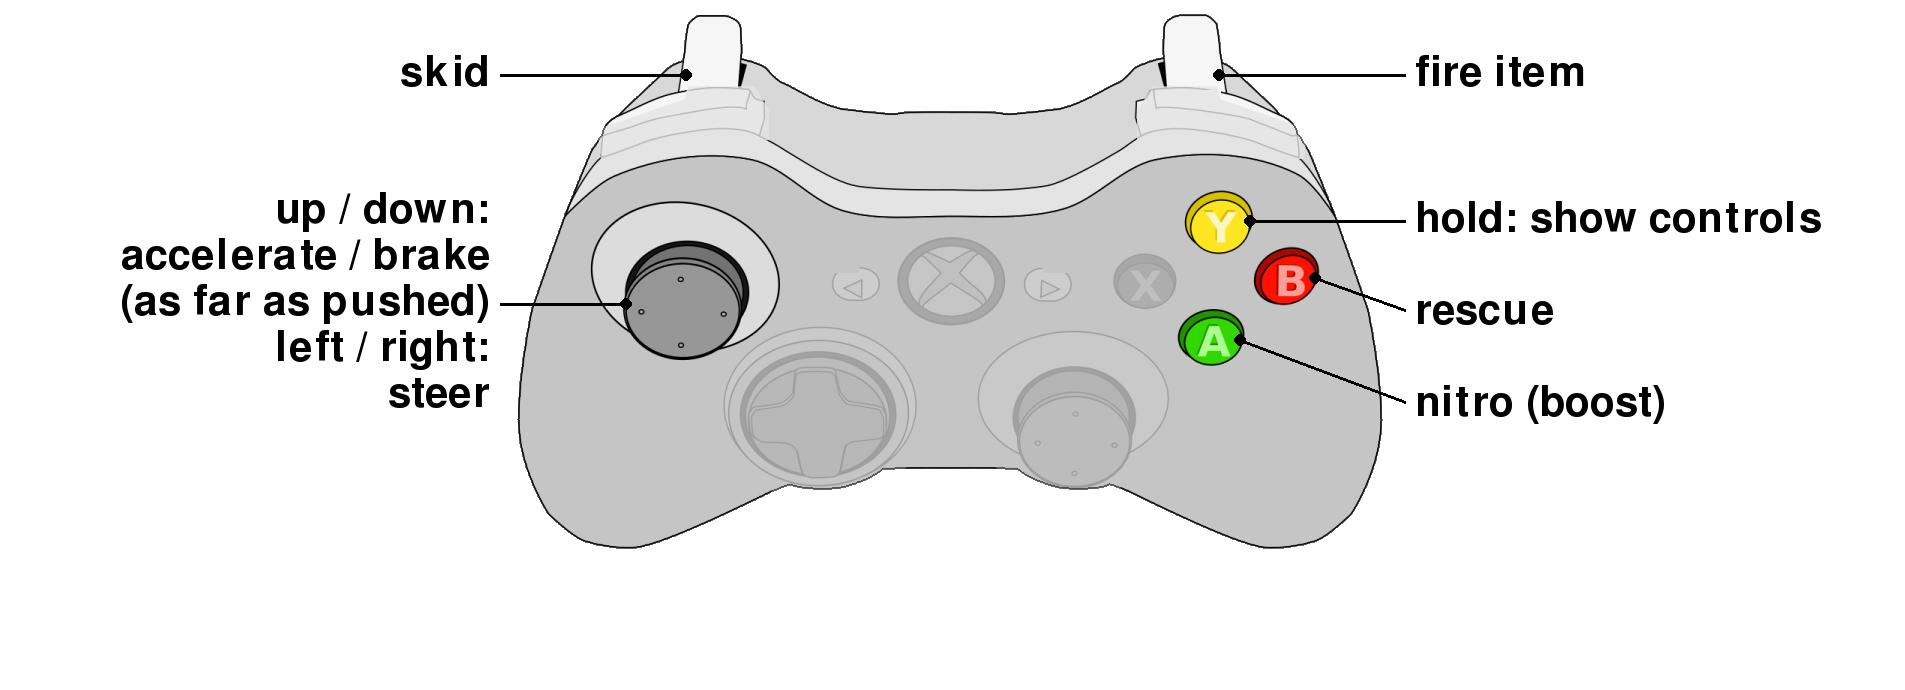
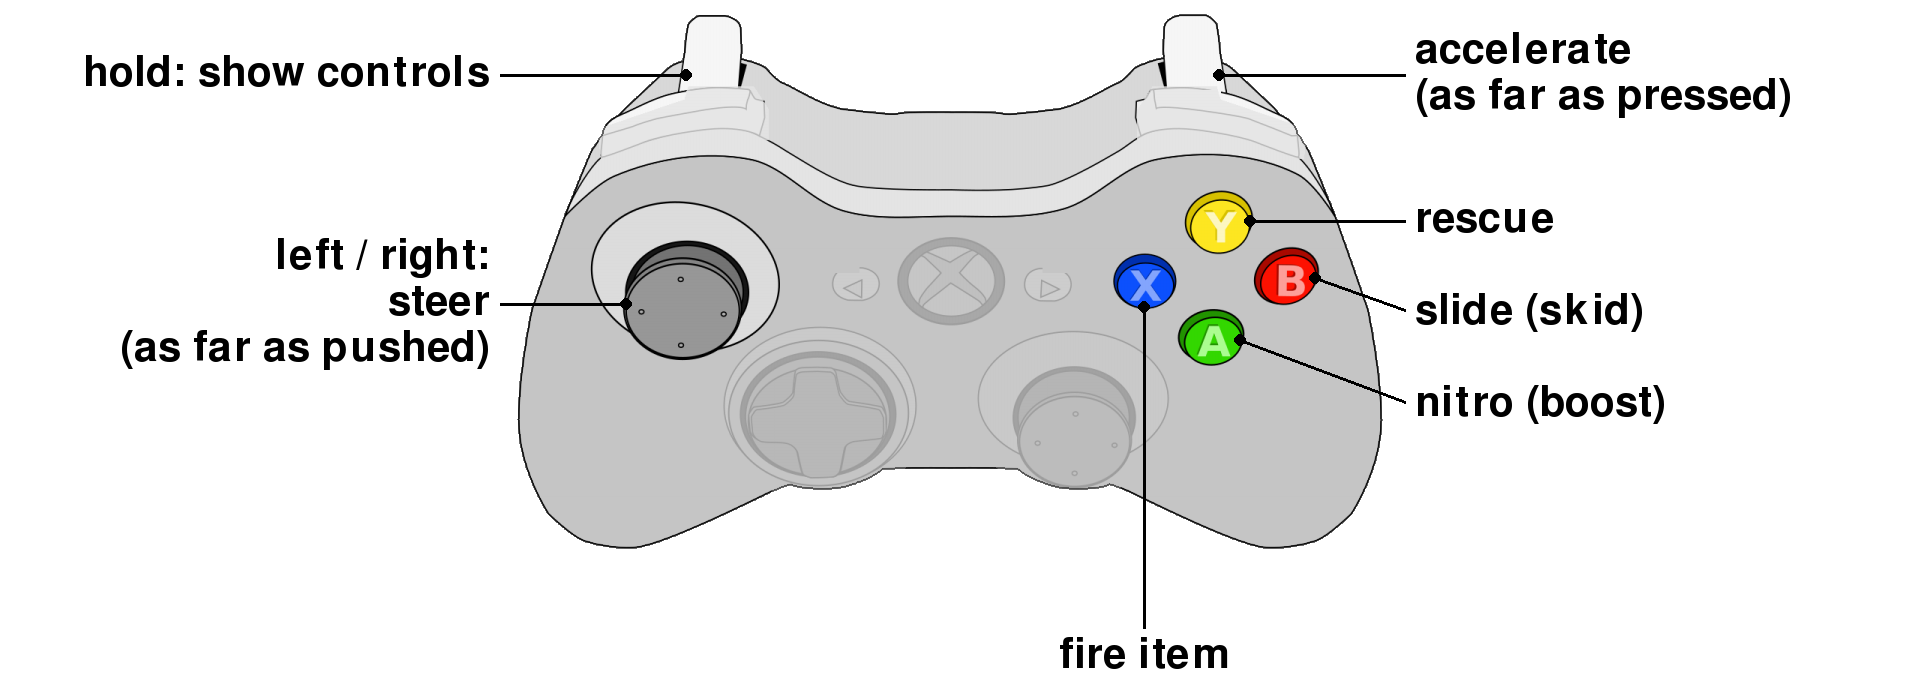
STK controller curricula: BC's layout with the triggers swapped
The main stk-GMPD3-stick-nav and -analog phases now play like BC's analog
one, with LT and RT swapped: stick steers, RT accelerates (as far as
pressed in the analog version), A nitro, B skid, X fire, Y rescue, LT held
shows the controls; brake has no control. The controls images and the
common README are redrawn and rewritten to match.

Verified: tests.verify_replay on hacienda-GMPD3-stick-nav-analog and
hacienda-GMPD3-stick-nav, 600 frames each, 0 mismatched; pytest --changed
1550 passed.

diff --git a/configs/curricula/stk/common/README.md b/configs/curricula/stk/common/README.md
@@ -1,6 +1,6 @@
 # SuperTuxKart curricula
 
-The `stk` backend's curricula: one per race track, each including `common/stk.json` (3 laps, 4 karts, difficulty 1, 640x360, `frame_skip` 2 at 60 fps, seed 1, 300 s, the instructions) and naming its `track` and title (README, "Shared phases"). Each track also comes in a `*-GMPD3-stick-nav` version, which includes `common/stk-GMPD3-stick-nav.json` instead: the same race played on a Current Designs GMPD3 (README, "Rigs"), steering and accelerating on the left stick; it plays on a rig whose `"inputs"` list the GMPD3 or an Xbox controller. Each also comes in a `*-GMPD3-stick-nav-analog` version (`common/stk-GMPD3-stick-nav-analog.json`), on the same controllers: the stick steers and accelerates as far as it is pushed, not all or nothing.
+The `stk` backend's curricula: one per race track, each including `common/stk.json` (3 laps, 4 karts, difficulty 1, 640x360, `frame_skip` 2 at 60 fps, seed 1, 300 s, the instructions) and naming its `track` and title (README, "Shared phases"). Each track also comes in a `*-GMPD3-stick-nav` version, which includes `common/stk-GMPD3-stick-nav.json` instead: the same race played on a Current Designs GMPD3 (README, "Rigs"), steering on the left stick and accelerating with RT; it plays on a rig whose `"inputs"` list the GMPD3 or an Xbox controller. Each also comes in a `*-GMPD3-stick-nav-analog` version (`common/stk-GMPD3-stick-nav-analog.json`), on the same controllers: the stick steers and RT accelerates as far as they are pushed, not all or nothing.
 
 ## Setup
 
@@ -25,9 +25,9 @@ There is one curriculum per race track the package ships. Its other track names 
 
 ## Keys
 
-Every phase states its `action_mode`, which the adapter hands to the env; `stk.json` and `stk-GMPD3-stick-nav.json` play `"keys"`. With it, the env's action is MultiBinary(8) over SuperTuxKart's keys: 0=left, 1=right, 2=up (accelerate), 3=down (brake / reverse), 4=nitro, 5=skid, 6=fire, 7=rescue. Held keys combine, and the game's own player controller turns them into controls. `stk.json` maps them to the rig's ten keys (arrows, X nitro, C skid, SPACE fire, Z rescue), and `stk-GMPD3-stick-nav.json` to a controller's stick (up accelerates, down brakes), RT fire, LT skid, A nitro and B rescue; in both controller versions, Y shows the controls image for as long as it is held; keep each shared phase's Controls text in sync by hand.
+Every phase states its `action_mode`, which the adapter hands to the env; `stk.json` and `stk-GMPD3-stick-nav.json` play `"keys"`. With it, the env's action is MultiBinary(8) over SuperTuxKart's keys: 0=left, 1=right, 2=up (accelerate), 3=down (brake / reverse), 4=nitro, 5=skid, 6=fire, 7=rescue. Held keys combine, and the game's own player controller turns them into controls. `stk.json` maps them to the rig's ten keys (arrows, X nitro, C skid, SPACE fire, Z rescue), and `stk-GMPD3-stick-nav.json` to a controller: the stick's x axis steers, RT accelerates, A nitro, B skid, X fire and Y rescue, and brake has no control; in both controller versions, LT shows the controls image for as long as it is held.
 
-`stk-GMPD3-stick-nav-analog.json` sets `"action_mode": "continuous_full"`: the action is Box(7) of the kart's controls, 0=steer (-1 left .. 1 right), 1=accelerate (0..1), 2=brake, 3=nitro, 4=skid, 5=fire, 6=rescue (each on above 0.5), which the env sets directly, past the game's player controller (no steering ramp). The stick's x axis is the steering, its up side the throttle and its down side the brake (past half its travel), LT skid, A nitro, RT fire and B rescue.
+`stk-GMPD3-stick-nav-analog.json` sets `"action_mode": "continuous_full"`: the action is Box(7) of the kart's controls, 0=steer (-1 left .. 1 right), 1=accelerate (0..1), 2=brake, 3=nitro, 4=skid, 5=fire, 6=rescue (each on above 0.5), which the env sets directly, past the game's player controller (no steering ramp). The stick's x axis is the steering, RT the throttle (as far as it is pressed), A nitro, B skid, X fire and Y rescue; brake has no control.
 
 ## Timing
 
